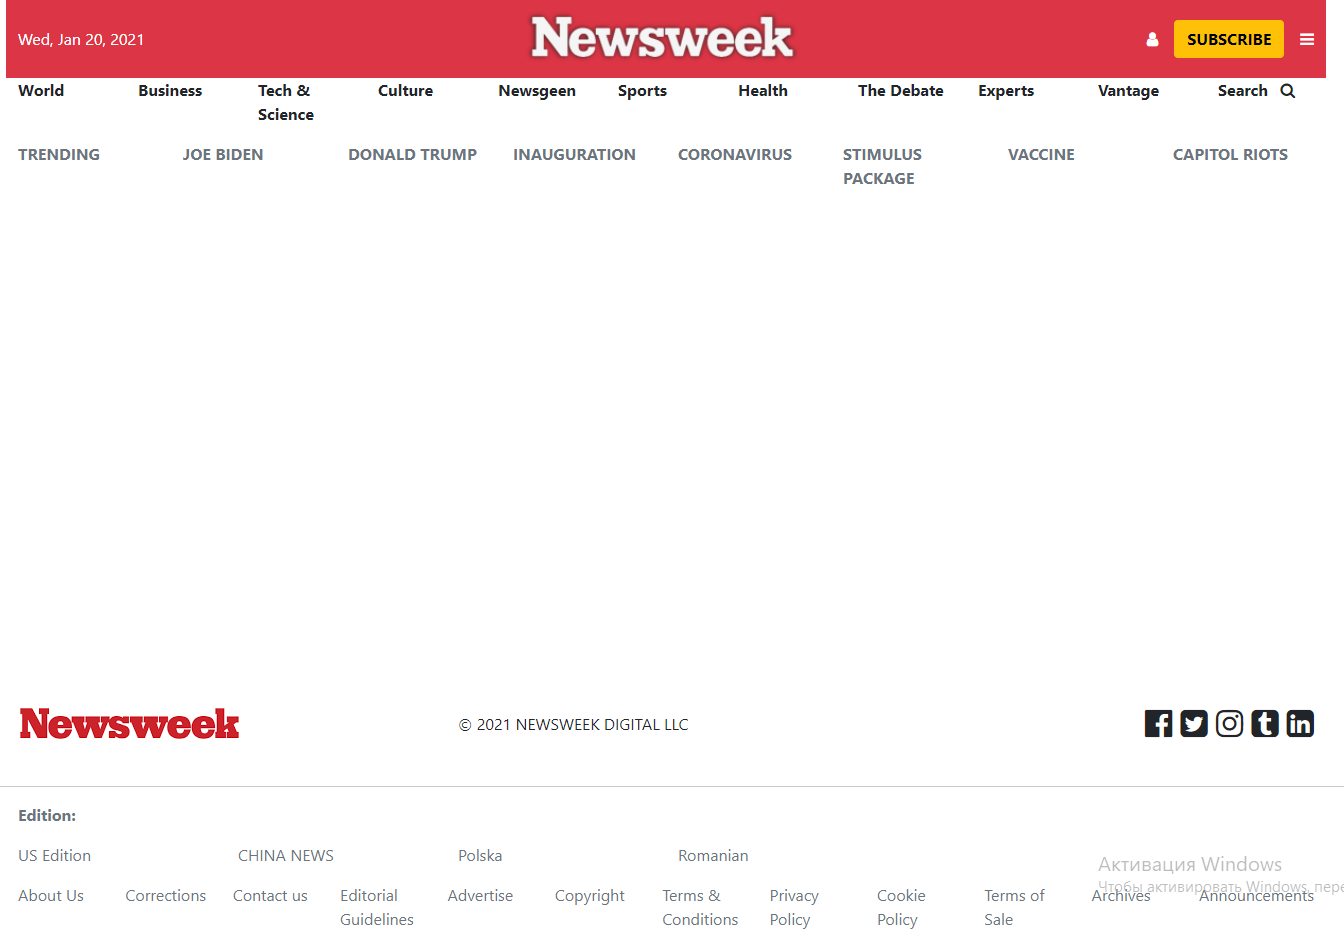
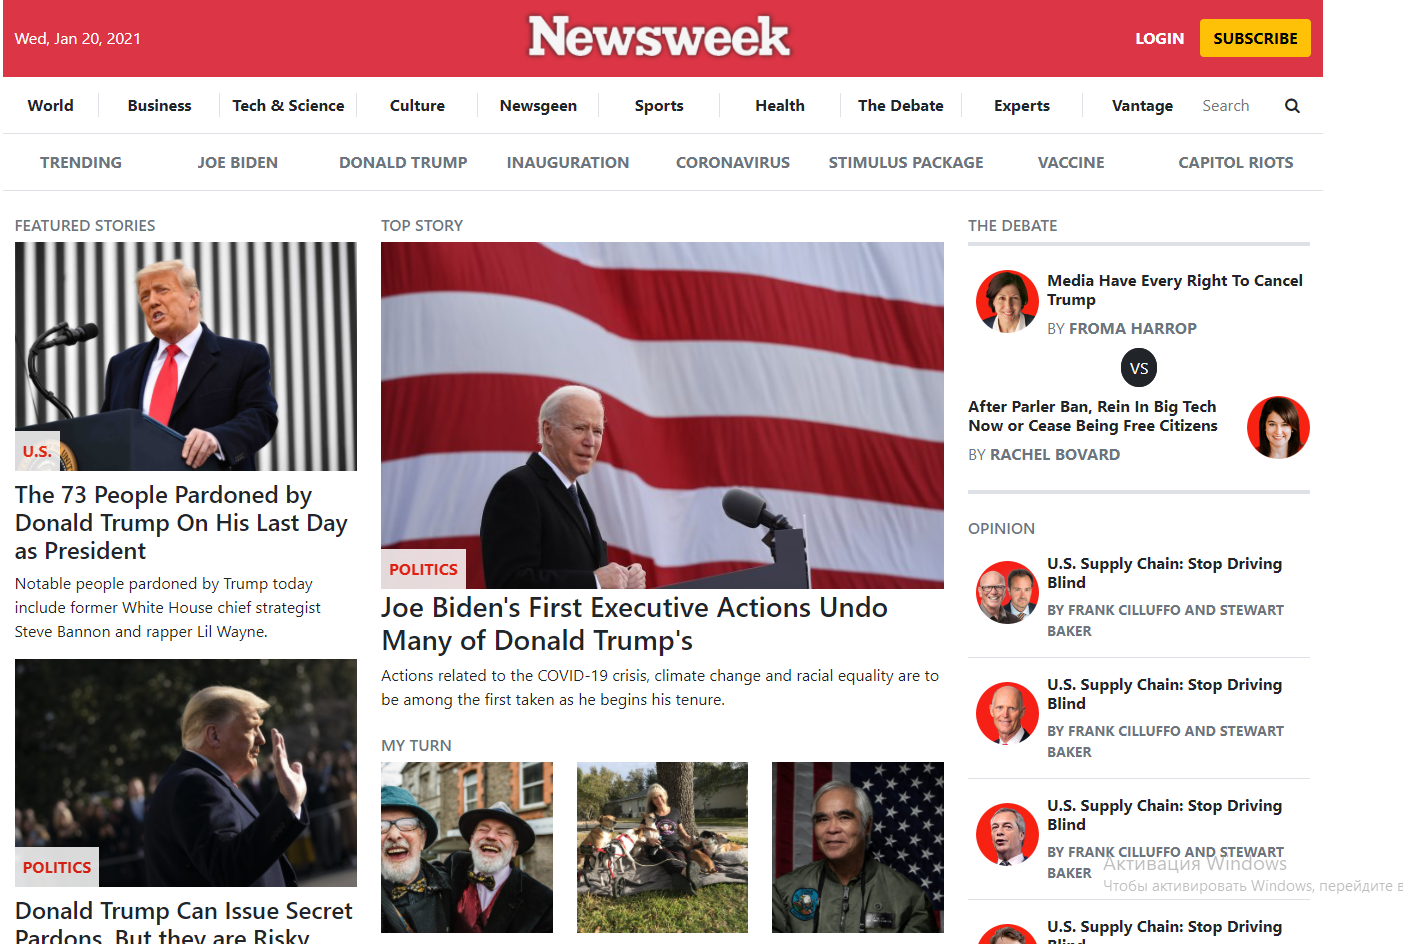
modify readme file

diff --git a/README.md b/README.md
@@ -2,10 +2,11 @@
 ![](https://img.shields.io/badge/Microverse-blueviolet)
 
 
-> This is a clone of Newsweek Page header and footer.
+> This is a clone of Newsweek Page header, main content and footer.
 There we have applied Bootstrap.
 It has:
 - a responsive header;
+- a responsive main with three responsive columns;
 - a responsive footer.
 
 <img src="assets/1.png">
